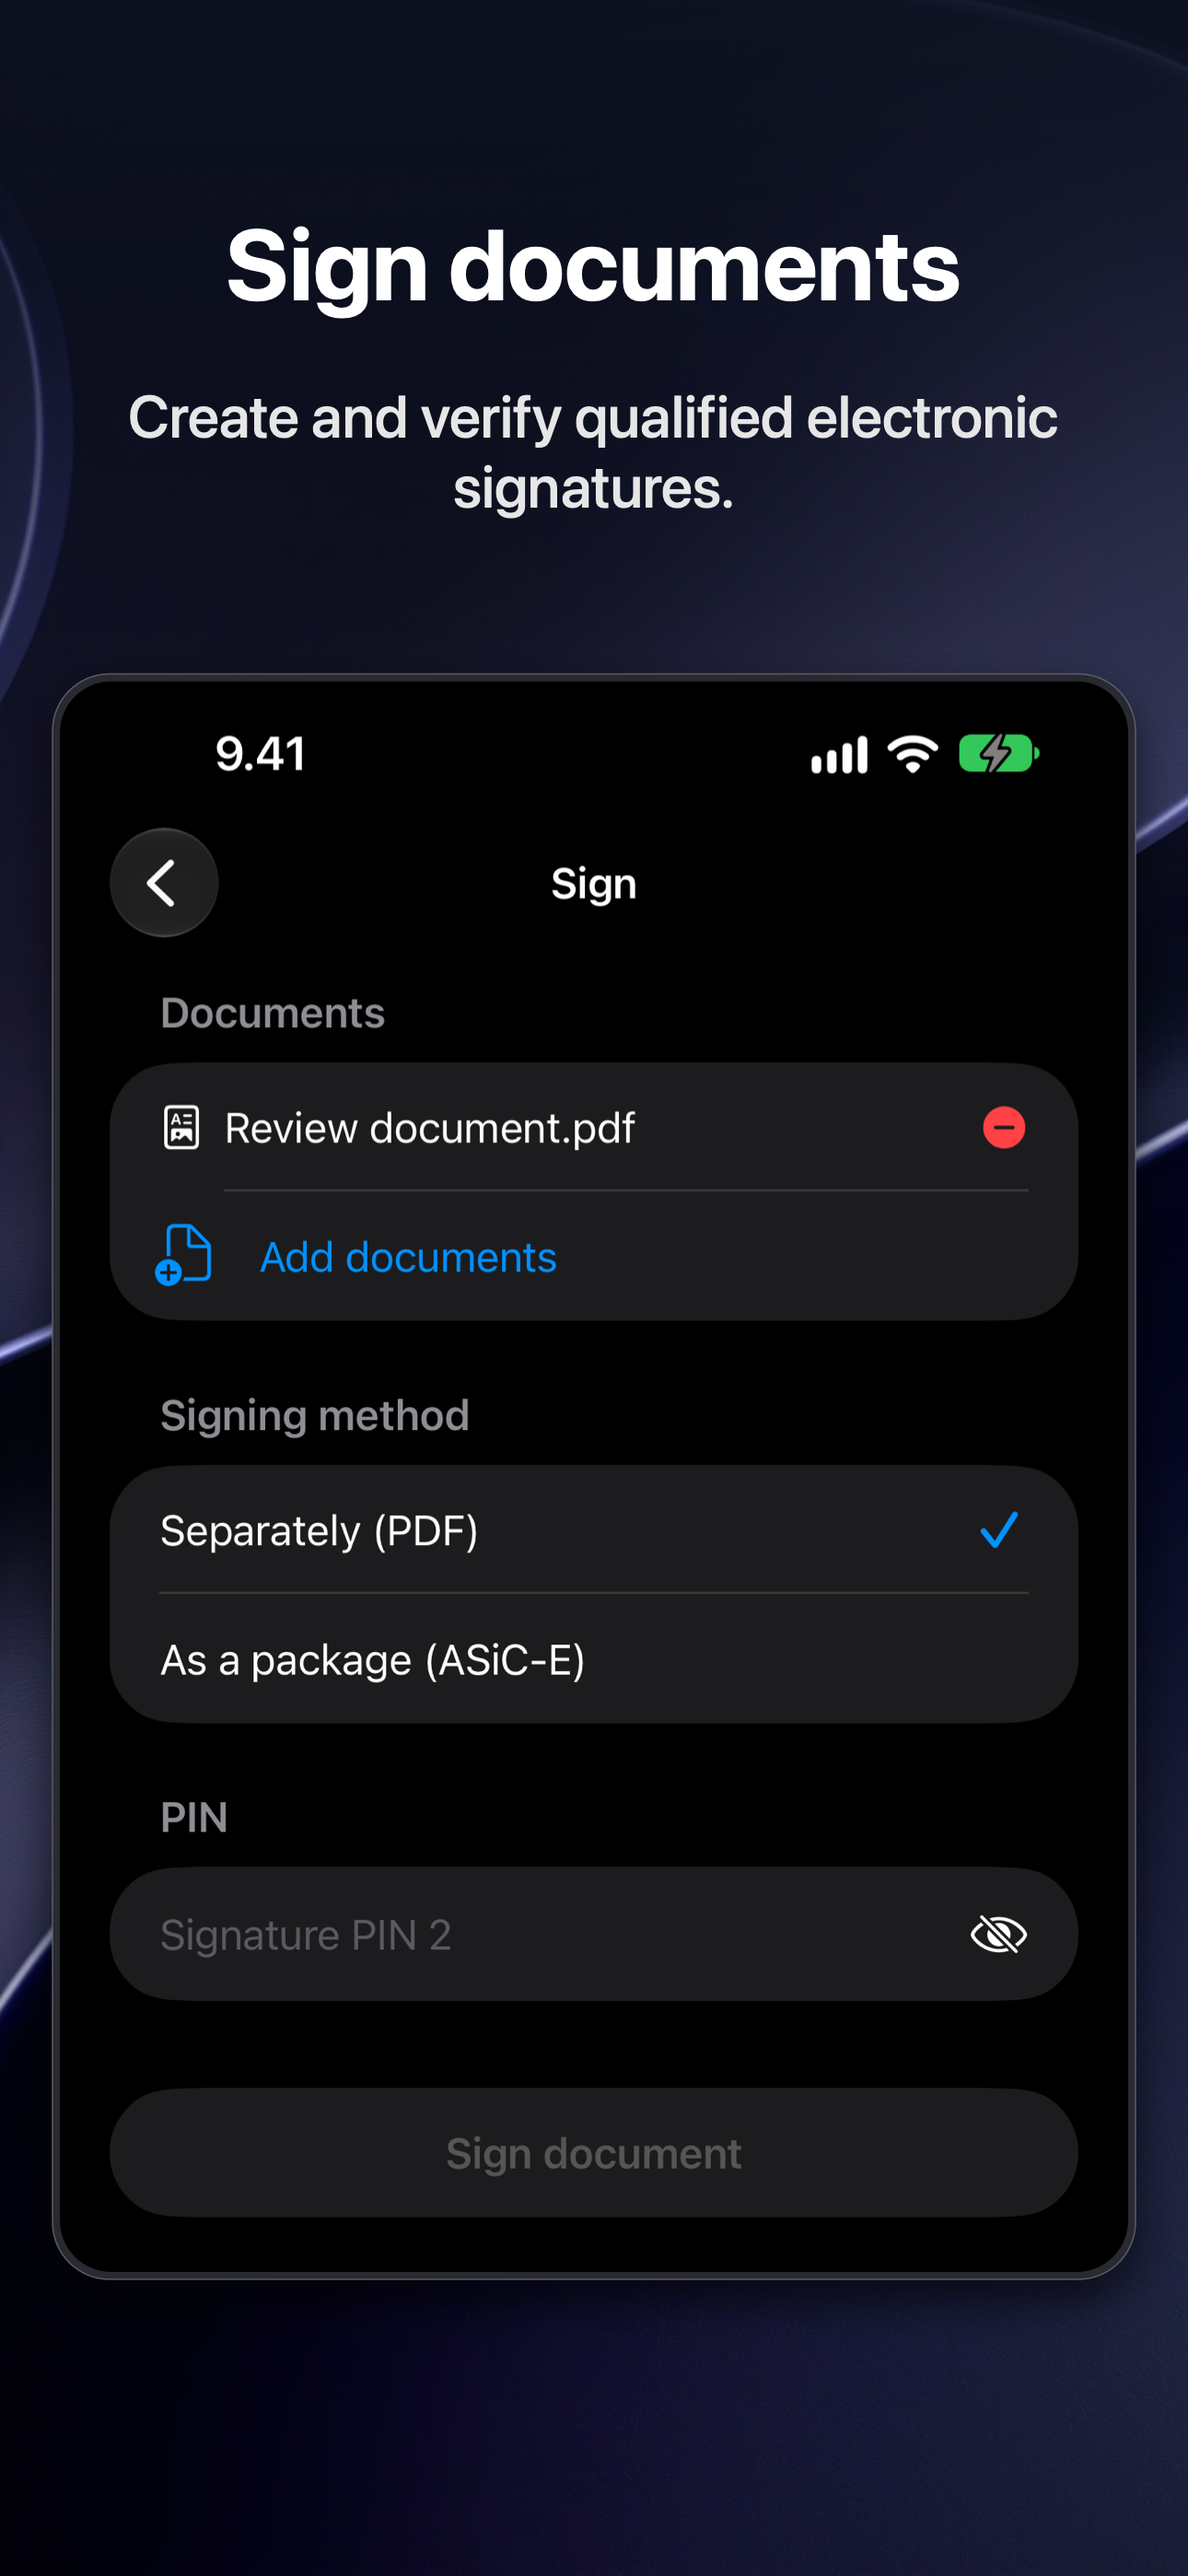
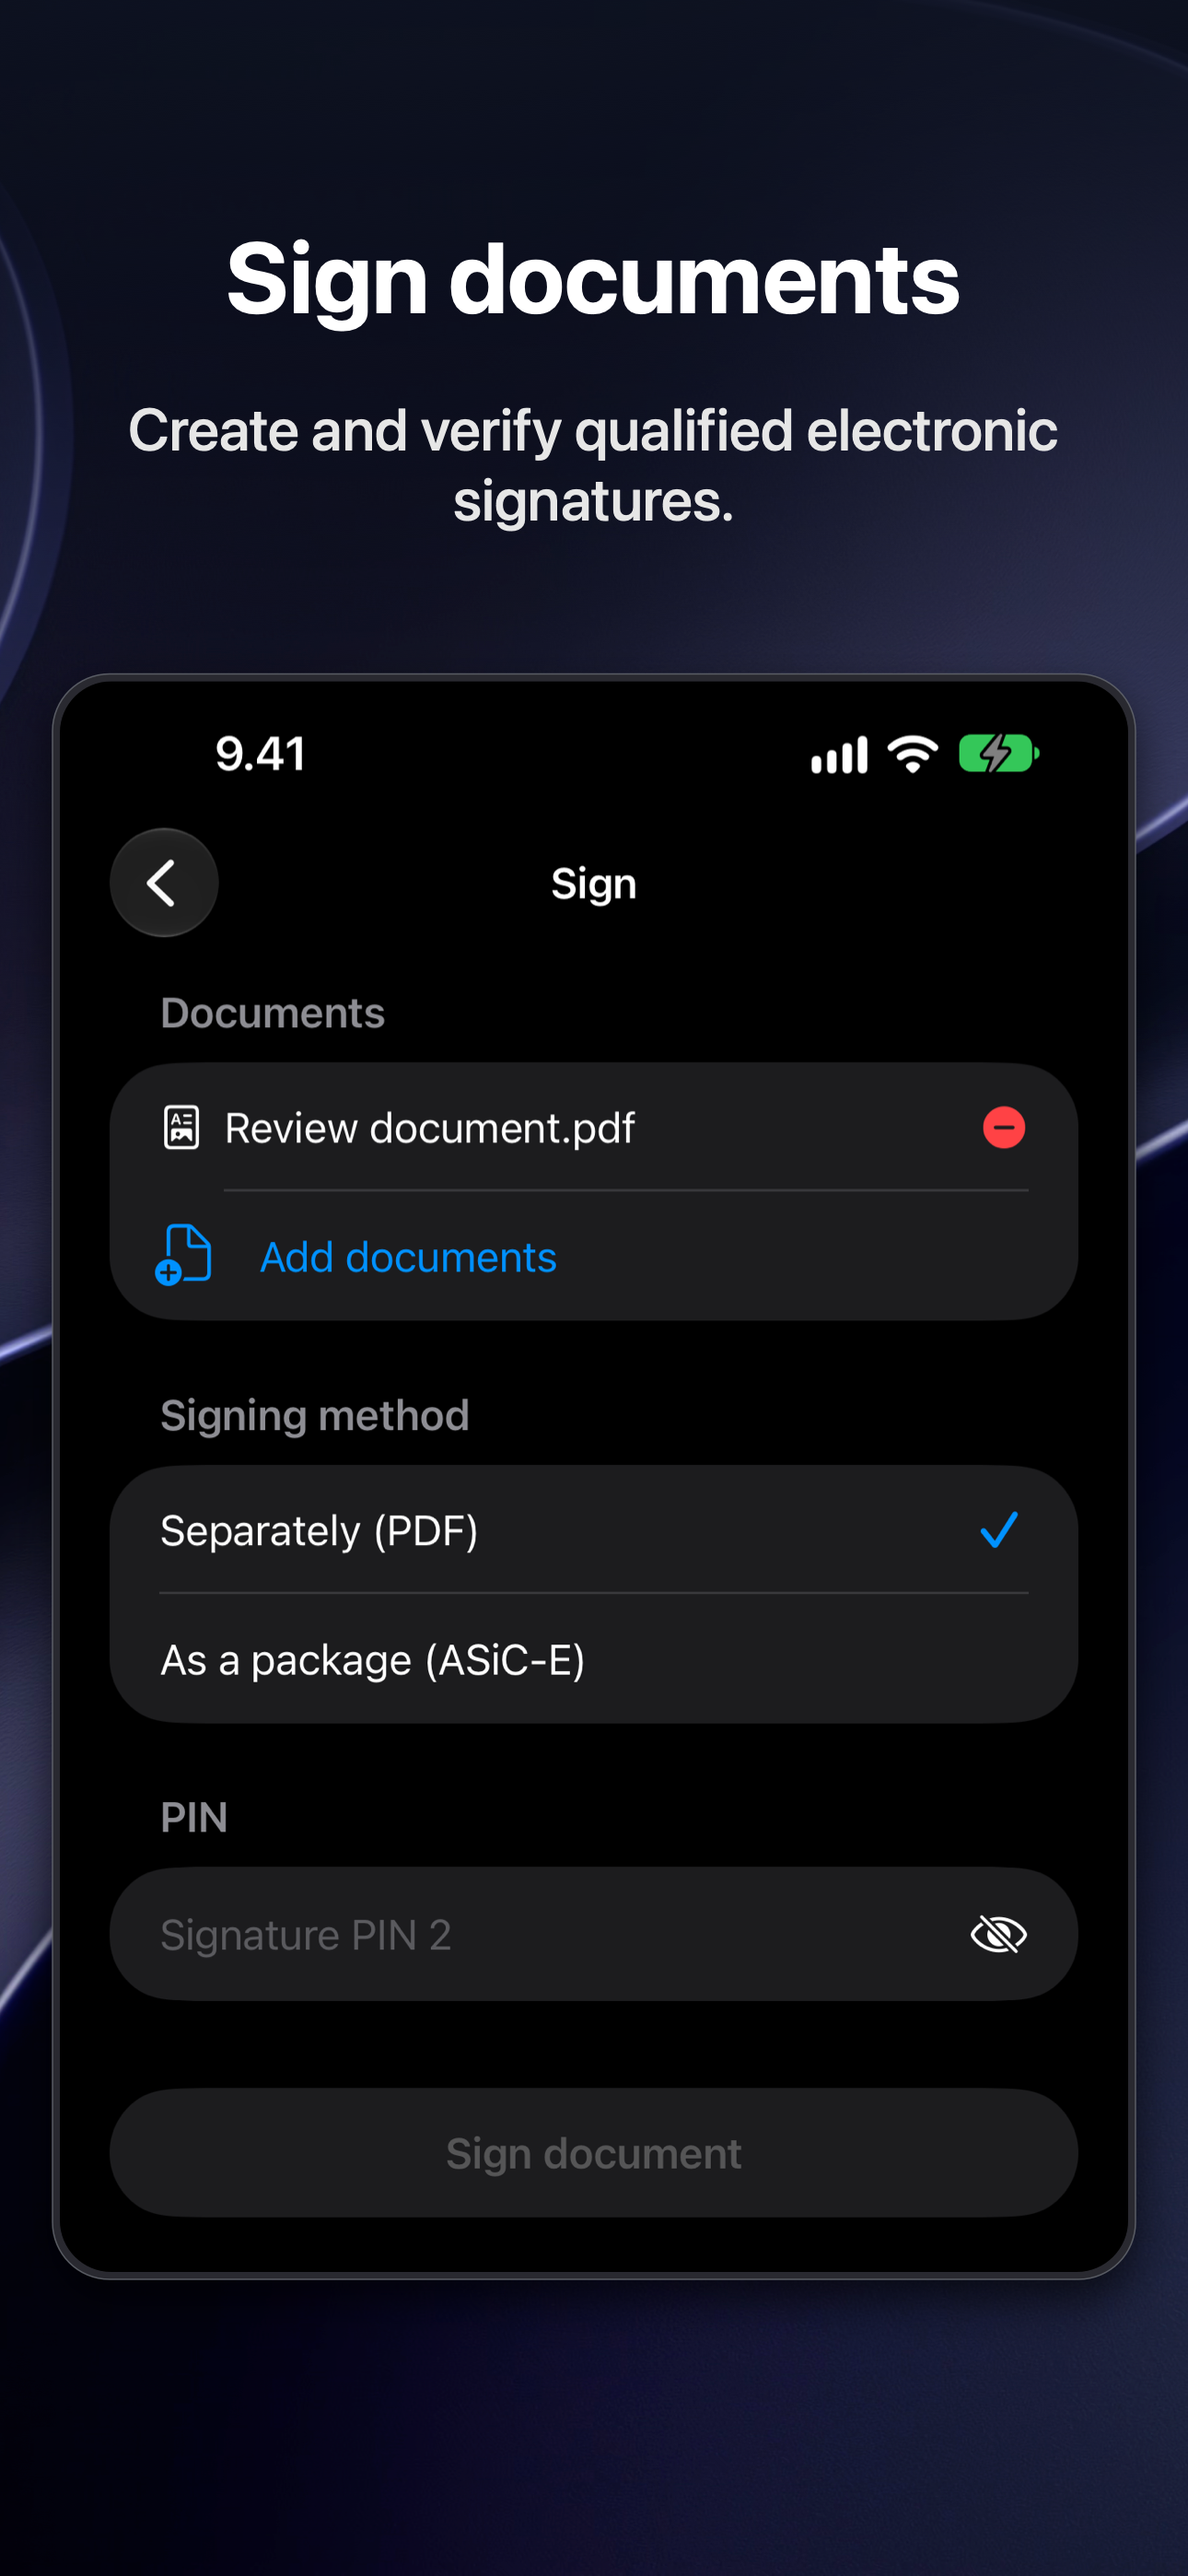
Align screenshot headlines to consistent top margin across slides

Changed region(s): [[0.093, 0.0933, 0.8992, 0.2178]]

diff --git a/Scripts/generate-store-screenshots.swift b/Scripts/generate-store-screenshots.swift
@@ -391,10 +391,10 @@ func renderIOS(locale: String, slide: SlideData) {
     let subHeight = ceil(subBounding.height)
 
     // 4. Spatial Geometry & Hierarchy
-    // Compromise: Title-to-Subtitle has breathing room (64px), Subtitle-to-Card is pulled closer (175px)
-    let phoneY: CGFloat = 330
-    let subToCardGap: CGFloat = 175
-    let titleToSubGap: CGFloat = 64
+    // Harmonized top-anchored alignment: Title starts at the exact same level across all slides (titleTopMargin = 236)
+    let titleTopMargin: CGFloat = 236
+    let titleToSubGap: CGFloat = titleHeight > 150 ? 56 : 64
+    let phoneY: CGFloat = titleHeight > 150 ? 250 : 330
 
     let rawCropHeight: CGFloat = 1920
     let targetWidth: CGFloat = 1160
@@ -402,9 +402,12 @@ func renderIOS(locale: String, slide: SlideData) {
     let phoneX = (CGFloat(width) - targetWidth) / 2
     let cornerRadius: CGFloat = 56.0
 
-    let subBottomY = phoneY + targetHeight + subToCardGap
+    let titleTopY = CGFloat(height) - titleTopMargin
+    let titleBottomY = titleTopY - titleHeight
+    let subTopY = titleBottomY - titleToSubGap
+    let subBottomY = subTopY - subHeight
+
     let subRect = CGRect(x: 60, y: subBottomY, width: CGFloat(width - 120), height: subHeight)
-    let titleBottomY = subBottomY + subHeight + titleToSubGap
     let titleRect = CGRect(x: 50, y: titleBottomY, width: CGFloat(width - 100), height: titleHeight)
 
     (slide.title as NSString).draw(in: titleRect, withAttributes: titleAttr)
@@ -550,9 +553,10 @@ func renderIPad(locale: String, slide: SlideData) {
     let subHeight = ceil(subBounding.height)
 
     // 4. Spatial Geometry & Hierarchy
-    let ipadY: CGFloat = 580
-    let subToCardGap: CGFloat = 260
-    let titleToSubGap: CGFloat = 72
+    // Harmonized top-anchored alignment: Title starts at the exact same level across all slides (titleTopMargin = 280)
+    let titleTopMargin: CGFloat = 280
+    let titleToSubGap: CGFloat = titleHeight > 200 ? 64 : 72
+    let ipadY: CGFloat = titleHeight > 200 ? 520 : 580
 
     let rawCropHeight: CGFloat = 1340
     let targetWidth: CGFloat = 1860
@@ -560,9 +564,12 @@ func renderIPad(locale: String, slide: SlideData) {
     let ipadX = (CGFloat(width) - targetWidth) / 2
     let cornerRadius: CGFloat = 44.0
 
-    let subBottomY = ipadY + targetHeight + subToCardGap
+    let titleTopY = CGFloat(height) - titleTopMargin
+    let titleBottomY = titleTopY - titleHeight
+    let subTopY = titleBottomY - titleToSubGap
+    let subBottomY = subTopY - subHeight
+
     let subRect = CGRect(x: 100, y: subBottomY, width: CGFloat(width - 200), height: subHeight)
-    let titleBottomY = subBottomY + subHeight + titleToSubGap
     let titleRect = CGRect(x: 80, y: titleBottomY, width: CGFloat(width - 160), height: titleHeight)
 
     (slide.title as NSString).draw(in: titleRect, withAttributes: titleAttr)
